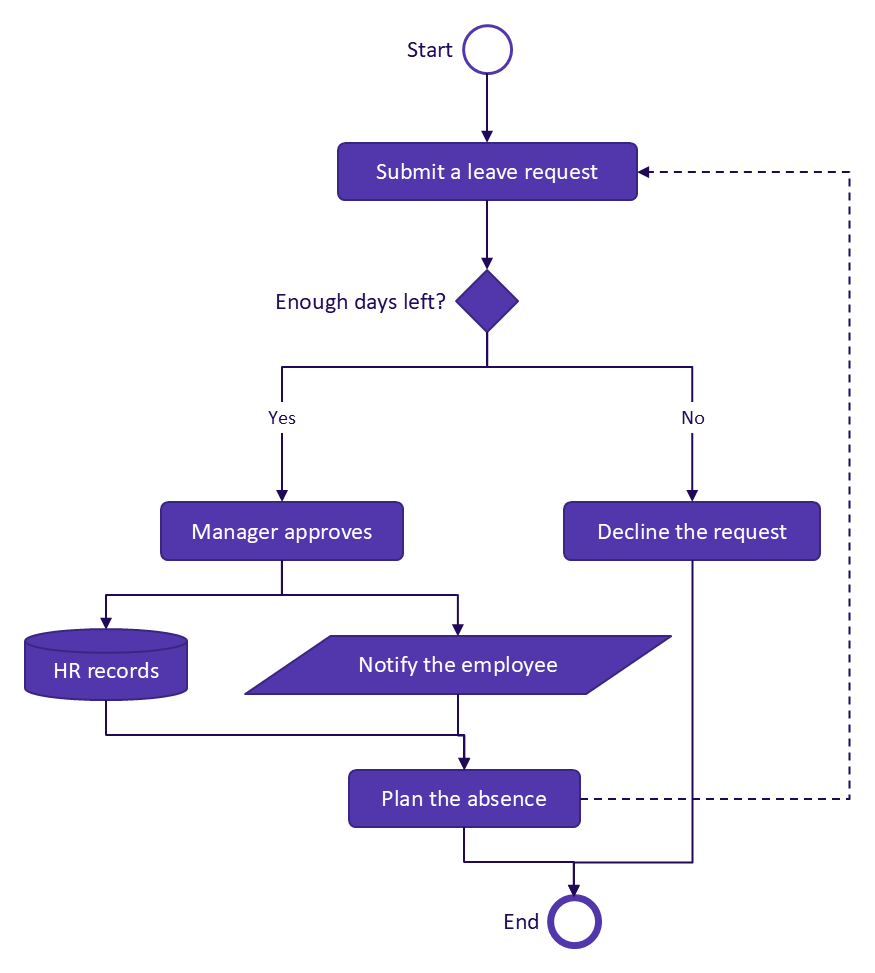
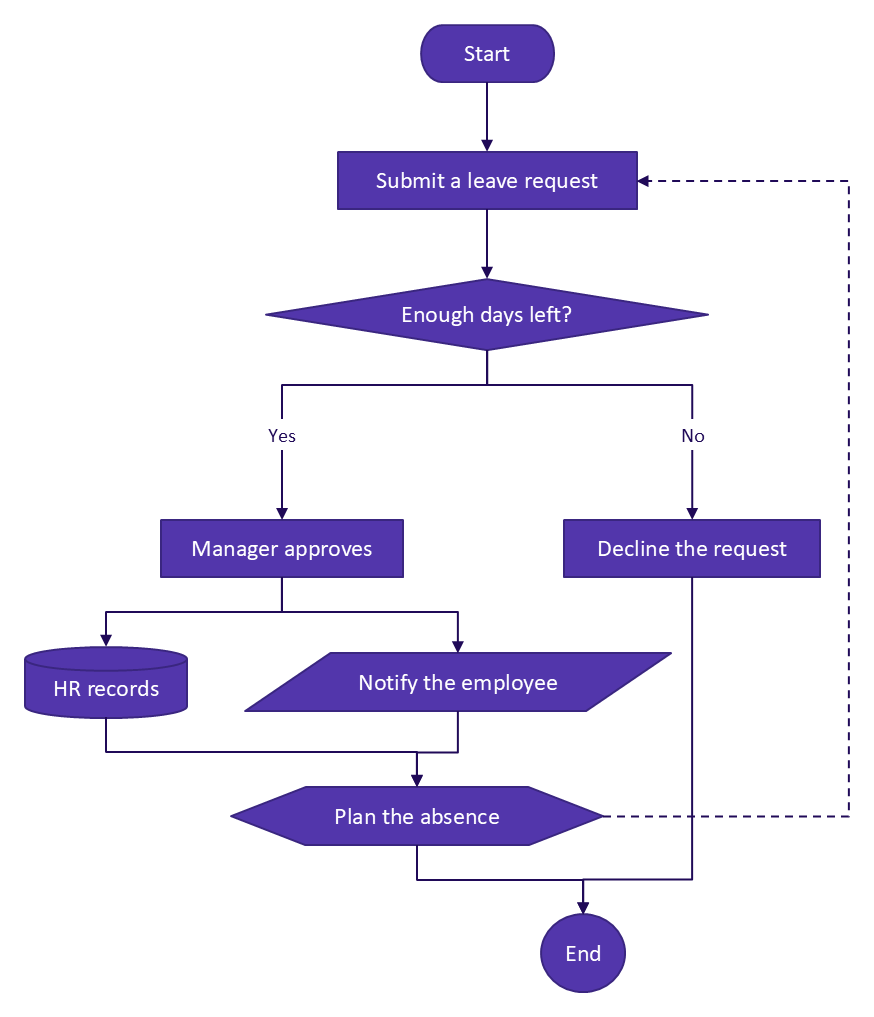
1.1.0: sequence diagrams, Gantt charts, Mermaid shapes by default, browser version
Changelog, README (new sections and before/after images, release steps: tag the merged
commit), web page examples for every diagram type, package description.

diff --git a/web/index.html b/web/index.html
@@ -57,7 +57,8 @@
 <body>
 <main>
   <h1>mermaid2pptx</h1>
-  <p class="lead">Turn a Mermaid flowchart into native, editable PowerPoint shapes. Runs entirely in your
+  <p class="lead">Turn a Mermaid flowchart, sequence diagram or Gantt chart into native, editable
+    PowerPoint shapes. Runs entirely in your
     browser: nothing to install, and your diagram never leaves your computer.</p>
 
   <div class="grid">
@@ -72,6 +73,14 @@
   </div>
 
   <div class="options">
+    <label>Example
+      <select id="example">
+        <option value="flowchart">Flowchart: leave request</option>
+        <option value="incident_lanes">Flowchart as BPMN: incident, with swim lanes</option>
+        <option value="sequence">Sequence diagram: leave request</option>
+        <option value="gantt">Gantt chart: onboarding</option>
+      </select>
+    </label>
     <label>Drawing
       <select id="render">
         <option value="mermaid">Mermaid shapes (default)</option>
@@ -214,12 +223,22 @@ async function convert() {
 }
 $("convert").addEventListener("click", convert);
 
-// ---- Start with an example; #selftest converts it at once (used by CI and docs/screenshots) ----
-fetch("examples/incident_lanes.mmd").then((r) => r.ok ? r.text() : "")
-  .then((t) => { $("src").value = t || "graph TD\n  A[Start] --> B{Choice?}\n  B -->|Yes| C[Do it]\n  B -->|No| D[Skip]";
-                 fileName = t ? "incident_lanes" : "diagram"; schedulePreview();
-                 if (location.hash === "#selftest")          // report to the serving process's log
-                   convert().then(() => fetch("selftest?" + encodeURIComponent(document.title))); });
+// ---- Examples; #selftest converts one at once (used by CI and docs/screenshots) ----------------
+async function loadExample(name) {
+  const r = await fetch(`examples/${name}.mmd`);
+  $("src").value = r.ok ? await r.text() : "graph TD\n  A[Start] --> B{Choice?}\n  B -->|Yes| C[Do it]\n  B -->|No| D[Skip]";
+  fileName = r.ok ? name : "diagram";
+  $("render").value = name === "incident_lanes" ? "bpmn" : "mermaid";     // the BPMN example needs its drawing
+  schedulePreview();
+}
+$("example").addEventListener("change", () => loadExample($("example").value));
+const hash = new URLSearchParams(location.hash.slice(1));        // #selftest, or #selftest=gantt
+const selftest = hash.has("selftest");
+if (hash.get("selftest")) $("example").value = hash.get("selftest");
+loadExample($("example").value).then(() => {
+  if (selftest)                                               // report to the serving process's log
+    convert().then(() => fetch("selftest?" + encodeURIComponent(document.title)));
+});
 </script>
 </body>
 </html>

diff --git a/src/mermaid2pptx/__init__.py b/src/mermaid2pptx/__init__.py
@@ -21,5 +21,5 @@ from .errors import MermaidError
 from .options import AUTHOR_ENV, PALETTES, Options, palette
 from .source import extract_blocks
 
-__version__ = "1.0.2"
+__version__ = "1.1.0"
 __all__ = ["AUTHOR_ENV", "PALETTES", "MermaidError", "Options", "convert", "extract_blocks", "palette", "__version__"]

diff --git a/README.md b/README.md
@@ -27,10 +27,24 @@ A leave request, with a database, a data object and a loop back
 
 | Mermaid | PowerPoint (`mermaid2pptx flowchart.mmd`) |
 |---|---|
-| <img src="https://raw.githubusercontent.com/JeanMichelDurand/mermaid2pptx/main/docs/img/flowchart.before.png" width="380" alt="Mermaid rendering of the leave request flowchart"> | <img src="https://raw.githubusercontent.com/JeanMichelDurand/mermaid2pptx/main/docs/img/flowchart.after.png" width="440" alt="PowerPoint slide: gateway, events and elbow connectors"> |
+| <img src="https://raw.githubusercontent.com/JeanMichelDurand/mermaid2pptx/main/docs/img/flowchart.before.png" width="380" alt="Mermaid rendering of the leave request flowchart"> | <img src="https://raw.githubusercontent.com/JeanMichelDurand/mermaid2pptx/main/docs/img/flowchart.after.png" width="440" alt="PowerPoint slide: the same shapes, with elbow connectors"> |
 
-Every box, diamond and arrow on the right is a native, editable PowerPoint object: move a box and
-its connectors follow. `docs/screenshots.sh` regenerates these images.
+The same leave request as a sequence diagram
+([`examples/sequence.mmd`](https://github.com/JeanMichelDurand/mermaid2pptx/blob/main/examples/sequence.mmd)):
+
+| Mermaid | PowerPoint (`mermaid2pptx sequence.mmd`) |
+|---|---|
+| <img src="https://raw.githubusercontent.com/JeanMichelDurand/mermaid2pptx/main/docs/img/sequence.before.png" width="380" alt="Mermaid rendering of the sequence diagram"> | <img src="https://raw.githubusercontent.com/JeanMichelDurand/mermaid2pptx/main/docs/img/sequence.after.png" width="440" alt="PowerPoint slide: participants, lifelines, messages, activation bars, notes and blocks"> |
+
+A new employee's onboarding plan
+([`examples/gantt.mmd`](https://github.com/JeanMichelDurand/mermaid2pptx/blob/main/examples/gantt.mmd)):
+
+| Mermaid | PowerPoint (`mermaid2pptx gantt.mmd`) |
+|---|---|
+| <img src="https://raw.githubusercontent.com/JeanMichelDurand/mermaid2pptx/main/docs/img/gantt.before.png" width="380" alt="Mermaid rendering of the Gantt chart"> | <img src="https://raw.githubusercontent.com/JeanMichelDurand/mermaid2pptx/main/docs/img/gantt.after.png" width="440" alt="PowerPoint slide: sections, bars, milestones and a weekly axis"> |
+
+Every box, diamond and arrow on the right is a native, editable PowerPoint object: move a flowchart
+box and its connectors follow. `docs/screenshots.sh` regenerates these images.
 
 ## Install
 
@@ -78,7 +92,7 @@ This puts a `mermaid2pptx` command on your PATH.
 python3 install.py          # Windows: py install.py
 ```
 
-This creates `.venv/` in this folder, installs `python-pptx` into it and writes a launcher:
+This creates `.venv/` in this folder, installs the converter into it and writes a launcher:
 `mermaid2pptx.bat` on Windows, `mermaid2pptx` (a shell script) on Linux and macOS. Nothing is
 installed globally. The folder holds no `.bat` file until then, so it can be sent by mail: mail
 filters block batch files, even inside a zip.
@@ -122,8 +136,8 @@ Input files are read as UTF-8 (with or without BOM).
 |---|---|
 | `-o FILE` | output path (default: the input name with `.pptx`) |
 | `--block N` | the Nth ```` ```mermaid ```` block of a Markdown file |
-| `--direction TB\|BT\|LR\|RL` | override the diagram's direction |
-| `--font-size PT` | node text size before fitting (12) |
+| `--direction TB\|BT\|LR\|RL` | flowcharts: override the diagram's direction |
+| `--font-size PT` | text size before fitting (12) |
 | `--font NAME` | fixed font instead of the theme font |
 | `--render mermaid\|bpmn` | Flowcharts. `mermaid` (default): the flowchart's own shapes. `bpmn`: drawn like a BPMN process, see below |
 | `--no-events` | `bpmn`: don't add the start and end events the diagram lacks |
@@ -162,7 +176,7 @@ it has no end event, one is added after each node without an outgoing flow (`--n
 turn this off). The diagram's direction is kept; BPMN is usually drawn left to right,
 `--direction LR` does that.
 
-## Mermaid covered
+## Flowchart syntax covered
 
 - `flowchart` / `graph`, directions `TB TD BT LR RL`. Front matter, `%%` comments, `;` statement separators and ```` ``` ```` fences are all accepted.
 - Node shapes: `[rect]` `(round)` `([stadium])` `[[subroutine]]` `[(database)]` `((circle))`
@@ -176,13 +190,45 @@ turn this off). The diagram's direction is kept; BPMN is usually drawn left to r
   `stroke-width`, `stroke-dasharray` (`0` = solid), `color`. A `classDef` fill or stroke wins over
   `--color`; other CSS (`rx`, `ry`, …) is ignored.
 
-Not covered: every other diagram type (sequence, class, state, gantt…), the v11 `A@{ shape: … }`
-syntax, `click`, and per-subgraph `direction` (ignored). An `x` end marker is drawn as a diamond,
-because PowerPoint has no cross arrowhead.
+Not covered: the v11 `A@{ shape: … }` syntax, `click`, and per-subgraph `direction` (ignored). An
+`x` end marker is drawn as a diamond, because PowerPoint has no cross arrowhead.
+
+## Sequence diagrams
+
+- `participant` and `actor` (a figure over the name), with `as` aliases; participants met in a
+  message are added in order. Each is drawn at the top and again at the bottom, joined by a dashed
+  lifeline glued to both boxes.
+- Messages `->` `-->` `->>` `-->>` `-x` `--x` `-)` `--)` `<<->>` `<<-->>` (solid or dotted, with
+  an arrow, an open arrow, a cross or nothing), to another participant or to oneself (a loop).
+- Activation bars: `+`/`-` on a message, or `activate` / `deactivate`; nested bars step right.
+- `Note left of | right of | over A[,B]`, drawn as folded-corner notes.
+- Blocks `loop`, `alt`/`else`, `opt`, `par`/`and`, `critical`/`option`, `break`, nested;
+  `rect rgb(…)` as a coloured background; `box Colour Label … end` around participants.
+- `autonumber` (a numbered badge at the start of each message) and `title`.
+
+Not covered: `create`/`destroy` (the participant is drawn from top to bottom, with a warning for
+`destroy`), `links`, and the v11 participant types (`@{ "type": … }`, drawn as participants).
+
+## Gantt charts
+
+- `title`, `dateFormat` (dayjs tokens: `YYYY-MM-DD` by default, `DD/MM/YYYY HH:mm`, `D MMM YY`…),
+  `axisFormat` (`%d %b`, `%Y-%m-%d` by default, `%H:%M`…), `tickInterval` (`1week`, `1month`…),
+  `weekday`, `section`.
+- Tasks `Name : [done|active|crit|milestone,] [id,] [start,] end`, where start is a date or
+  `after id1 id2`, and end is a date, a duration (`3d`, `2w`, `12h`, `30m`, `1M`) or `until id`.
+  Without a start, a task follows the one before it.
+- `excludes weekends`, day names or dates (and `includes` exceptions): durations skip those days,
+  which are shaded on the chart. `inclusiveEndDates`.
+- One row per task; sections as alternating bands with their name on the left; the task's name on
+  its bar when it fits, beside it otherwise. Done, active and critical tasks have their own colours
+  in every palette.
+
+Not covered: `click`, `todayMarker` (a slide has no "today"), `displayMode compact`, and dependency
+arrows (Mermaid draws none either).
 
 ## Layout, in short
 
-A layered (Sugiyama-style) layout, implemented in the script itself:
+Flowcharts use a layered (Sugiyama-style) layout, implemented in `src/mermaid2pptx/flowchart/layout/`:
 
 1. Break cycles (the edge written last closes the cycle).
 2. Rank nodes by longest path. An edge with a label spans two ranks, so its label gets its own slot.
@@ -208,13 +254,13 @@ python3 install.py dev             # Windows: py install.py dev
 
 GitHub Actions runs them on Windows, Linux and macOS, with Python 3.10 and 3.13, on every push.
 
-The tests cover the parser, and a check that each connector's geometry draws its route: the
+The tests cover the three parsers, and a check that each connector's geometry draws its route: the
 path is rebuilt from the XML (preset path, then flip, then rotation) independently of the
 converter. On every example in `examples/` in every direction, they also check that nodes never
 overlap, that routes stay orthogonal and never cross a node, and that each connector end, as
 drawn, lands on the connection site it is glued to.
 
-The connection-site indices in `SHAPES` were measured in PowerPoint through COM
+The connection-site indices in `flowchart/shapes.py` were measured in PowerPoint through COM
 (`ConnectionSiteCount` / `BeginConnect`), and the examples were checked by rendering them in
 PowerPoint and moving a node to confirm the glue holds.
 
@@ -225,7 +271,9 @@ Bug reports (with the Mermaid input) and pull requests are welcome: see
 
 ## Releasing
 
-Bump `__version__` in `src/mermaid2pptx/__init__.py`, commit, then `git tag v1.2.3 && git push --tags`.
+Bump `__version__` in `src/mermaid2pptx/__init__.py` and merge it into `main`, then tag that merged
+commit: `git switch main && git pull && git tag v1.2.3 && git push origin v1.2.3`. The workflow stops
+at once if the tag and `__version__` differ (a tag on a commit that still has the old version).
 The `release` workflow runs the tests, builds one standalone executable per system with
 PyInstaller, runs each on an example, attaches them to a GitHub release, and publishes the
 package to PyPI. Record the changes in [CHANGELOG.md](https://github.com/JeanMichelDurand/mermaid2pptx/blob/main/CHANGELOG.md) first.

diff --git a/CHANGELOG.md b/CHANGELOG.md
@@ -66,7 +66,7 @@ All notable changes to this project are recorded here. The format follows
 - Document author from `--author` or `MERMAID2PPTX_AUTHOR`.
 - Standalone executables for Windows, Linux and macOS, and a PyPI package.
 
-[Unreleased]: ../../compare/v1.0.2...HEAD
-[1.0.2]: ../../compare/v1.0.1...v1.0.2
+[Unreleased]: ../../compare/v1.1.0...HEAD
+[1.1.0]: ../../compare/v1.0.1...v1.1.0
 [1.0.1]: ../../compare/v1.0.0...v1.0.1
 [1.0.0]: ../../releases/tag/v1.0.0
